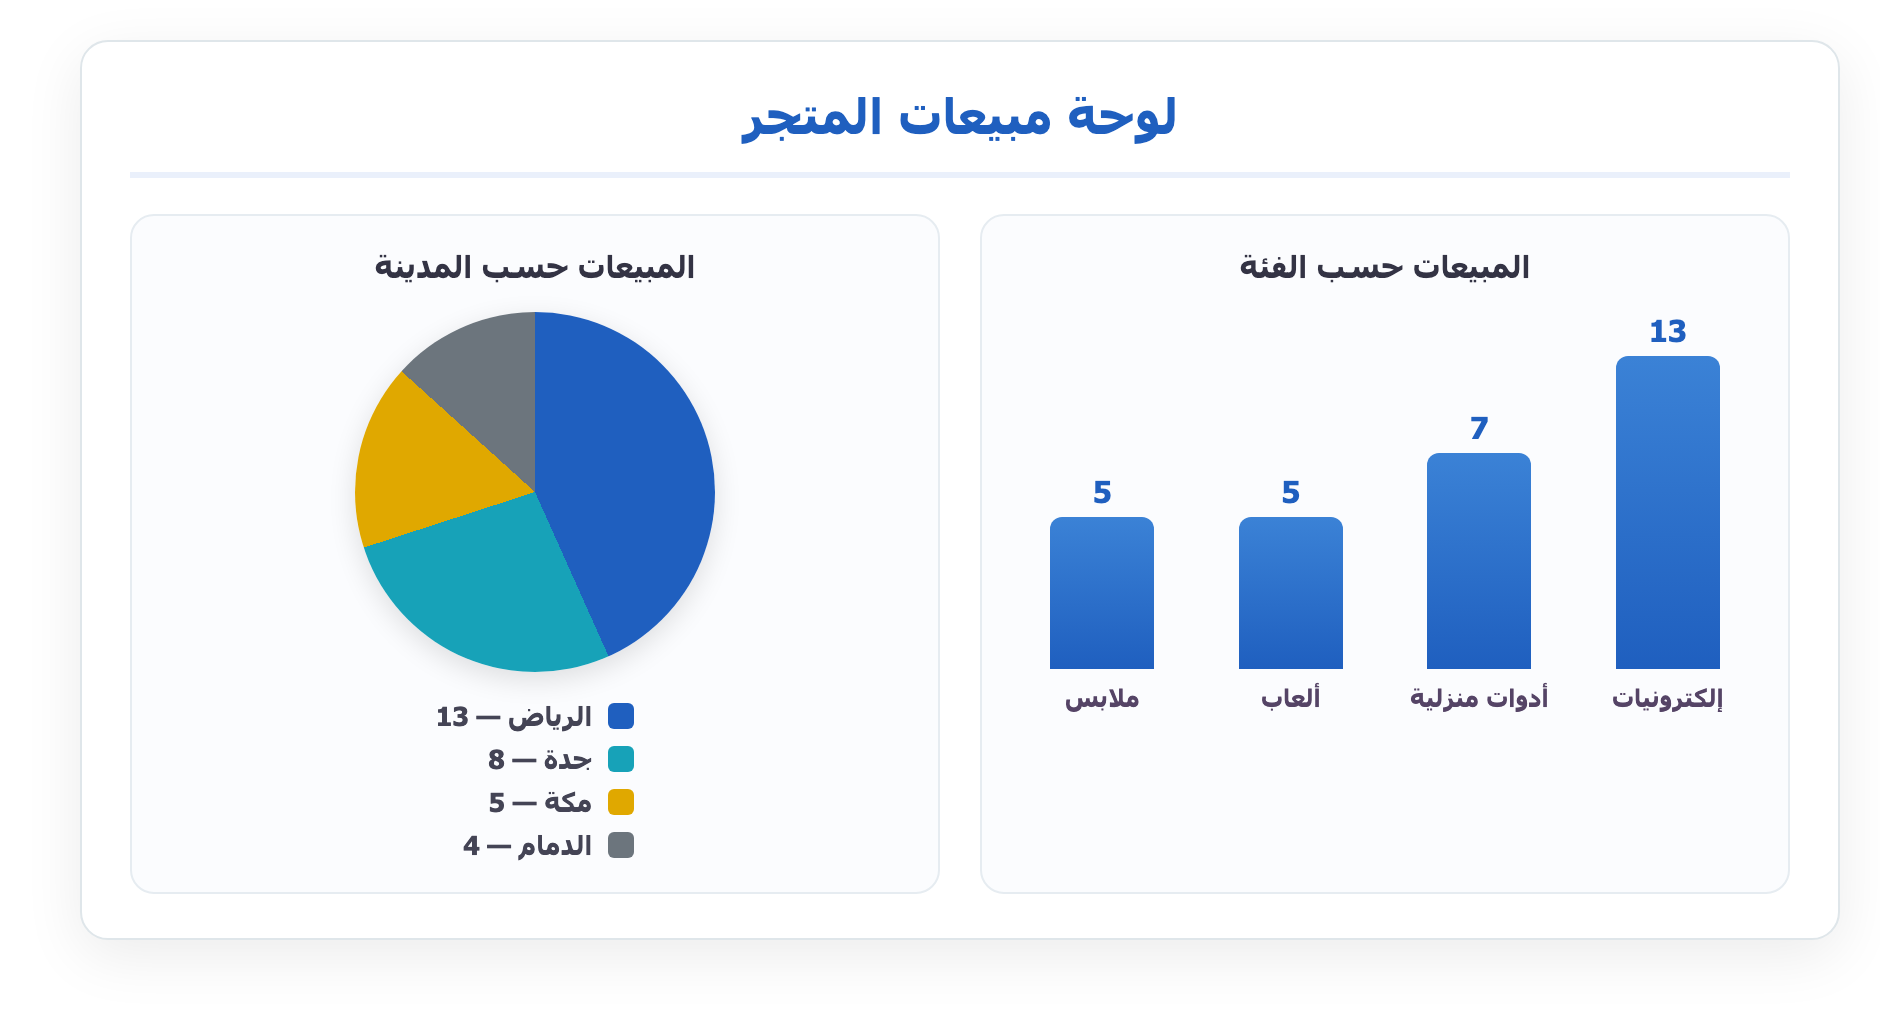
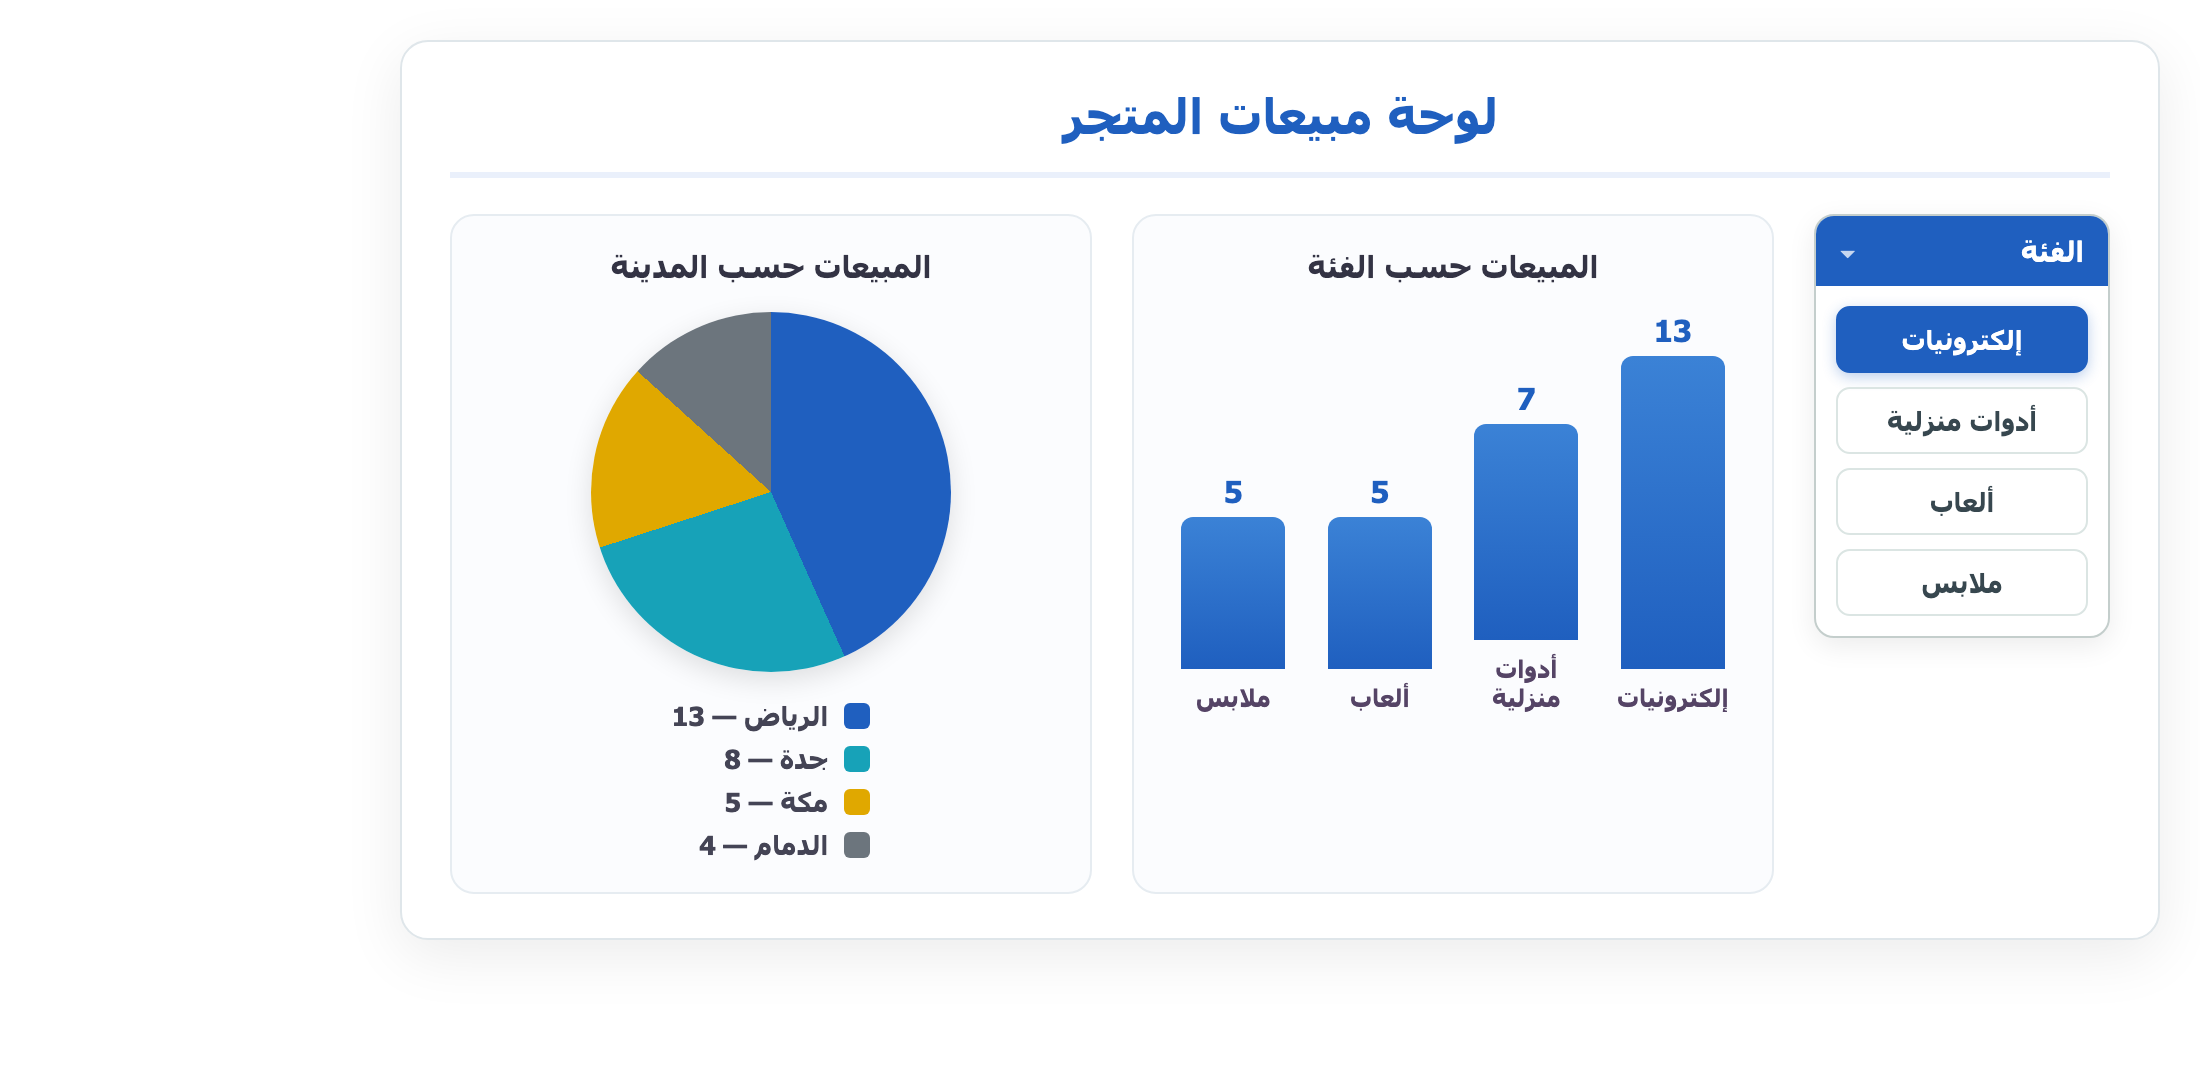
exam: إضافة سؤال المقسّم (Slicer) — لوحة تفاعلية حقيقية + دمج العنوان مع بناء اللوحة (يبقى ١٠ أسئلة)

Changed region(s): [[0.5245, 0.1824, 0.9872, 0.699], [0.1851, 0.2431, 0.4319, 0.851], [0.4011, 0.0912, 0.6787, 0.152]]

diff --git a/exam/index.html b/exam/index.html
@@ -132,7 +132,7 @@ body{font-family:-apple-system,"SF Arabic","Segoe UI",Tahoma,sans-serif;backgrou
   <h3>🗺️ رحلة الحل — ثلاث مراحل</h3>
   <div class="jstage"><div class="bub">١</div><div class="tx"><b>نظّفنا البيانات</b><br><span>المسافات · فصل عمود · دمج عمودين</span></div></div>
   <div class="jstage"><div class="bub">٢</div><div class="tx"><b>جدول وتحليل</b><br><span>حوّلناه جدولاً · محوري للفئة · محوري للمدينة</span></div></div>
-  <div class="jstage"><div class="bub">٣</div><div class="tx"><b>المخططات واللوحة</b><br><span>مخطط عمودي · مخطط دائري · لوحة تحكم بعنوان</span></div></div>
+  <div class="jstage"><div class="bub">٣</div><div class="tx"><b>المخططات واللوحة</b><br><span>مخطط عمودي · مخطط دائري · لوحة بعنوان · مقسّم تفاعلي</span></div></div>
 </div>
 
 <div class="intro" style="margin-top:0">
@@ -265,26 +265,29 @@ body{font-family:-apple-system,"SF Arabic","Segoe UI",Tahoma,sans-serif;backgrou
 <!-- 9 -->
 <section class="lesson">
   <div class="qhead"><span class="num">حل السؤال ٩</span></div>
-  <div class="lt">جمع المخططين في ورقة «لوحة التحكم»</div>
-  <div class="exp">نجمع كل شي في ورقة واحدة نظيفة اسمها لوحة التحكم.</div>
+  <div class="lt">ورقة «لوحة التحكم» + عنوان فوقها</div>
+  <div class="exp">نجمع كل شي في ورقة واحدة نظيفة، ونضيف عنواناً كبيراً يعطيها شكلاً احترافياً.</div>
   <ol class="steps">
     <li>أنشئ ورقة جديدة وسمّها <span class="f" dir="ltr">لوحة التحكم</span>.</li>
     <li>قصّ المخطط العمودي (<span class="f" dir="ltr">Ctrl + X</span>) والصقه (<span class="f" dir="ltr">Ctrl + V</span>) في اللوحة، وكرّر للدائري.</li>
     <li>من تبويب «عرض» أزِل ✓ «خطوط الشبكة».</li>
+    <li>حدّد <span class="f" dir="ltr">A1:F1</span> ← «دمج وتوسيط» ← اكتب «لوحة مبيعات المتجر» ← كبّر الخط (١٨) واضغط «عريض» <span class="f" dir="ltr">B</span>.</li>
   </ol>
-  <div class="want"><b>النتيجة:</b> ورقة «لوحة التحكم» فيها المخططان، بخلفية بيضاء نظيفة بلا خطوط.</div>
+  <div class="want"><b>النتيجة:</b> ورقة نظيفة فيها المخططان وعنوان كبير عريض فوقها.</div>
 </section>
 
 <!-- 10 -->
 <section class="lesson">
   <div class="qhead"><span class="num">حل السؤال ١٠</span></div>
-  <div class="lt">عنوان فوق اللوحة</div>
-  <div class="exp">لمسة أخيرة: عنوان كبير يعطي اللوحة شكلاً احترافياً.</div>
+  <div class="lt">المقسّم — لوحة تفاعلية حقيقية</div>
+  <div class="exp">المقسّم (Slicer) هو أزرار تفلتر اللوحة بضغطة — هذا اللي يخلّيها لوحة تحكم حيّة، مو مجرّد صور.</div>
   <ol class="steps">
-    <li>حدّد النطاق <span class="f" dir="ltr">A1:F1</span> ← «دمج وتوسيط».</li>
-    <li>اكتب: «لوحة مبيعات المتجر» ← كبّر الخط (مثلاً ١٨) ← اضغط «عريض» <span class="f" dir="ltr">B</span>.</li>
+    <li>اضغط داخل الجدول المحوري (أو مخطط الفئة) ← «تحليل PivotTable» ← «إدراج مقسّم».</li>
+    <li>علّم «الفئة» ← «موافق»، وانقل المقسّم إلى ورقة «لوحة التحكم» بجانب المخططات.</li>
+    <li>جرّب اضغط «إلكترونيات» — بتشوف اللوحة تتغيّر معك. 🎛️</li>
   </ol>
-  <div class="want"><b>النتيجة:</b> عنوان واحد كبير وعريض ممتد فوق اللوحة.</div>
+  <div class="tip"><b>خطوة احترافية:</b> عشان زرّ واحد يفلتر كل المخططات معاً: يمين على المقسّم ← «اتصالات التقارير» ← علّم كل الجداول المحورية.</div>
+  <div class="want"><b>النتيجة:</b> مقسّم «الفئة» على اللوحة، أول ضغطة تفلتر البيانات — لوحة تفاعلية حقيقية.</div>
 </section>
 
 <!-- الختام -->
@@ -295,7 +298,7 @@ body{font-family:-apple-system,"SF Arabic","Segoe UI",Tahoma,sans-serif;backgrou
   <div class="shot">
     <div class="badge">📸 لوحة مبيعات المتجر</div>
     <img src="img/dash.png" alt="لوحة مبيعات المتجر الكاملة">
-    <div class="cap">مخطط أعمدة للفئات + مخطط دائري للمدن + عنوان — في ورقة واحدة نظيفة.</div>
+    <div class="cap">مخطط أعمدة + مخطط دائري + مقسّم «الفئة» التفاعلي + عنوان — لوحة تحكم حقيقية.</div>
   </div>
   <div class="want"><b>الأهم:</b> الترتيب قبل التحليل. رتّب بياناتك أولاً، وبعدها كل تحليل يطلع صحيحاً. 🎯</div>
 </section>